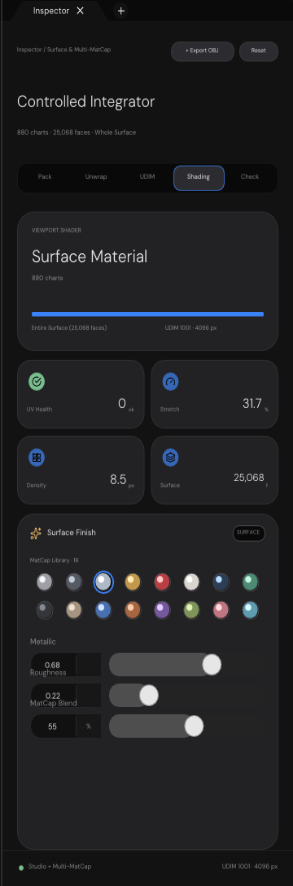
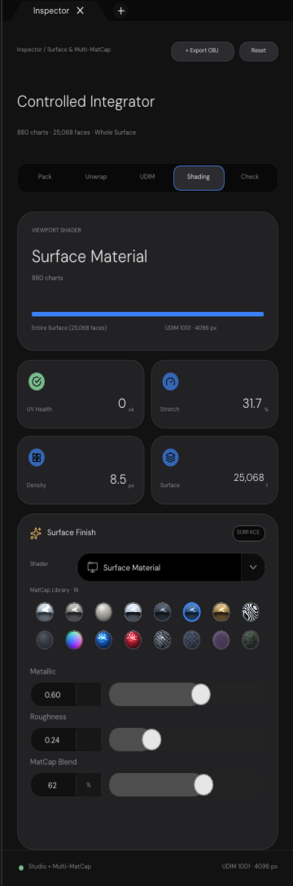
Polish UV workspace dropdown and card spacing

Changed region(s): [[0.215, 0.6095, 0.8908, 0.9142], [0.0922, 0.6095, 0.2457, 0.8837]]

diff --git a/Engine/Workspaces/UV/UVInspectorPanel.cpp b/Engine/Workspaces/UV/UVInspectorPanel.cpp
@@ -102,12 +102,12 @@ void ConstructMetricTrio(
         Surface.StrokeRectangle(Card, Highlight ? ColorRgba{ 239, 244, 207, 255 } : ColorRgba{ 255, 255, 255, 15 }, 16.0f, 1.0f);
         const ColorRgba SubInk = Highlight ? ColorRgba{ 23, 25, 14, 166 } : Theme.TextMuted;
         WorkspaceAppearance::ConstructTruncatedText(
-            Surface, FontWeightClass::Regular, { X + 11.0f, Box.Y + 9.0f }, CardW - 22.0f, 9.5f, SubInk, Cols[Idx][1]);
+            Surface, FontWeightClass::Regular, { X + 7.0f, Box.Y + 9.0f }, CardW - 14.0f, 8.5f, SubInk, Cols[Idx][1]);
         WorkspaceAppearance::ConstructTruncatedText(
-            Surface, FontWeightClass::Regular, { X + 11.0f, Box.Y + 24.0f }, CardW - 22.0f, 18.0f,
+            Surface, FontWeightClass::Regular, { X + 7.0f, Box.Y + 24.0f }, CardW - 14.0f, 18.0f,
             Highlight ? ColorRgba{ 23, 25, 14, 255 } : Theme.TextPrimary, Cols[Idx][0]);
         WorkspaceAppearance::ConstructTruncatedText(
-            Surface, FontWeightClass::Regular, { X + 11.0f, Box.Y + 47.0f }, CardW - 22.0f, 9.0f, SubInk, Cols[Idx][2]);
+            Surface, FontWeightClass::Regular, { X + 7.0f, Box.Y + 47.0f }, CardW - 14.0f, 8.0f, SubInk, Cols[Idx][2]);
     }
 }
 
@@ -127,13 +127,13 @@ void ConstructPackingMetricCards(
         Surface.FillRectangle(Card, ColorRgba{ 26, 26, 26, 255 }, 16.0f);
         Surface.StrokeRectangle(Card, ColorRgba{ 255, 255, 255, 15 }, 16.0f, 1.0f);
         WorkspaceAppearance::ConstructTruncatedText(
-            Surface, FontWeightClass::Regular, { X + 11.0f, Bounds.Y + 9.0f }, CardW - 22.0f, 9.5f,
+            Surface, FontWeightClass::Regular, { X + 7.0f, Bounds.Y + 9.0f }, CardW - 14.0f, 8.5f,
             Theme.TextMuted, Cards[Index][0]);
         WorkspaceAppearance::ConstructTruncatedText(
-            Surface, FontWeightClass::Regular, { X + 11.0f, Bounds.Y + 24.0f }, CardW - 22.0f, 18.0f,
+            Surface, FontWeightClass::Regular, { X + 7.0f, Bounds.Y + 24.0f }, CardW - 14.0f, 18.0f,
             Index == 0u ? Theme.AccentFill : Theme.TextPrimary, Cards[Index][1]);
         WorkspaceAppearance::ConstructTruncatedText(
-            Surface, FontWeightClass::Regular, { X + 11.0f, Bounds.Y + 48.0f }, CardW - 22.0f, 9.0f,
+            Surface, FontWeightClass::Regular, { X + 7.0f, Bounds.Y + 48.0f }, CardW - 14.0f, 8.0f,
             Theme.TextMuted, Cards[Index][2]);
     }
 }
@@ -175,6 +175,7 @@ void UVInspectorPanel::AttachSession(UVWorkspaceSession* TargetSession) noexcept
     ActiveLayerDropdownOpen = false;
     TargetUdimDropdownOpen = false;
     PackingScopeDropdownOpen = false;
+    ShadingModeDropdownOpen = false;
     LayerColorPickerOpen = false;
     LiveUnwrapEnabled = false;
 }
@@ -260,9 +261,9 @@ float UVInspectorPanel::RenderPackingTab(
     ConstructPackingMetricCards(
         Surface,
         { LeftX, CurY, InnerW, 66.0f },
-        {{{ std::string("Selected · UDIM ") + std::to_string(Session->ActiveUDIMNumber), SelectedCount, SelectedSub },
-          { std::string("UDIM ") + std::to_string(Session->ActiveUDIMNumber) + " Fill", FillStr, FillSub },
-          { "Auto Remainder", RemStr, RemSub }}},
+        {{{ "Selected Islands", SelectedCount, SelectedSub },
+          { "Tile Fill", FillStr, FillSub },
+          { "Remainder", RemStr, RemSub }}},
         Theme);
     CurY += 82.0f;
 
@@ -285,7 +286,7 @@ float UVInspectorPanel::RenderPackingTab(
             : std::string("Unassigned Remainder");
         WorkspaceAppearance::ConstructWeightedText(
             Surface, FontWeightClass::Regular, { SX, SY }, 11.5f, Theme.TextMuted, "Active Layer");
-        ActiveLayerDropdownBounds = { SX, SY + 17.0f, SW, 28.0f };
+        ActiveLayerDropdownBounds = { SX, SY + 17.0f, SW, 31.0f };
         const OptionalTooltip ActiveLayerTip = OptionalTooltip::FromTitled(
             "Active Layer", "Choose which priority allocation layer is active and select its faces in the workspace.");
         const ControlContact ActiveLayerButton = DropdownSelector::ConstructButton(
@@ -296,7 +297,7 @@ float UVInspectorPanel::RenderPackingTab(
             ActiveLayerDropdownOpen = !ActiveLayerDropdownOpen;
             TargetUdimDropdownOpen = false;
         }
-        SY += 52.0f;
+        SY += 55.0f;
 
         CurrentLayer = Session->Asset.Layers.InspectLayer(Session->SelectedLayerOrdinal);
         if (CurrentLayer != nullptr)
@@ -307,7 +308,7 @@ float UVInspectorPanel::RenderPackingTab(
             const OptionalTooltip ShareTip = OptionalTooltip::FromTitled(
                 "Space Share", "Set the active layer's target share of the UV packing area. Other explicit layer shares limit the available range.");
             if (ConstructSliderControl(
-                    Surface, { SX, SY, SW, 28.0f }, "Space Share", ShareVal, NormShare, Theme, Cursor, Down, Pressed,
+                    Surface, { SX, SY, SW, 46.0f }, "Space Share", ShareVal, NormShare, Theme, Cursor, Down, Pressed,
                     ColorRgba{ 0u, 0u, 0u, 0u }, ShareTip))
             {
                 Session->AdjustSelectedLayerShare(NormShare * 100.0f);
@@ -317,7 +318,7 @@ float UVInspectorPanel::RenderPackingTab(
         {
             float FixedNorm = RemPct * 0.01f;
             ConstructSliderControl(
-                Surface, { SX, SY, SW, 28.0f }, "Remainder Share (Auto)", RemStr, FixedNorm,
+                Surface, { SX, SY, SW, 46.0f }, "Remainder Share (Auto)", RemStr, FixedNorm,
                 Theme, Cursor, false, false,
                 ColorRgba{ 0u, 0u, 0u, 0u },
                 OptionalTooltip::FromText("Unassigned faces automatically receive the remaining allocation budget."));
@@ -470,7 +471,7 @@ float UVInspectorPanel::RenderPackingTab(
         CurrentLayer = Session->Asset.Layers.InspectLayer(Session->SelectedLayerOrdinal);
         const uint32_t TargetUDIM = CurrentLayer != nullptr ? CurrentLayer->TargetUDIMNumber : 0u;
         const std::string TargetLabel = TargetUDIM == 0u ? "Auto UDIM" : "UDIM " + std::to_string(TargetUDIM);
-        TargetUdimDropdownBounds = { SX, SY + 17.0f, SW, 28.0f };
+        TargetUdimDropdownBounds = { SX, SY + 17.0f, SW, 31.0f };
         const OptionalTooltip TargetTip = OptionalTooltip::FromTitled(
             "Target UDIM", "Pin the active layer's UV islands to a tile. Choosing an explicit UDIM translates its islands into that tile.");
         if (CurrentLayer != nullptr)
@@ -499,7 +500,7 @@ float UVInspectorPanel::RenderPackingTab(
             }
             TargetUdimDropdownOpen = false;
         }
-        SY += 47.0f;
+        SY += 52.0f;
 
         const float HalfW = (SW - 8.0f) * 0.5f;
         if (ConstructCapsuleButton(
@@ -591,26 +592,26 @@ float UVInspectorPanel::RenderPackingTab(
         constexpr std::array<const char*, 4u> ScopeOptions {{
             "Pack into Active UDIM Tile", "Pack Per Assigned UDIM Tile", "Auto-Spill Overflow to New UDIMs", "Pack Selected Islands Only" }};
         const uint32_t ScopeIndex = static_cast<uint32_t>(Prefs.PackingScope);
-        PackingScopeDropdownBounds = { SX, SY + 17.0f, SW, 28.0f };
+        PackingScopeDropdownBounds = { SX, SY + 17.0f, SW, 31.0f };
         const OptionalTooltip ScopeTip = OptionalTooltip::FromTitled(
             "UDIM Packing Scope", "Choose which UDIM tiles are affected by the next pack operation.");
         const ControlContact ScopeButton = DropdownSelector::ConstructButton(
             Surface, PackingScopeDropdownBounds, ScopeOptions[std::min<uint32_t>(ScopeIndex, 3u)],
-            PackingScopeDropdownOpen, Input.PrimaryPointer, 0.92f, ControlIcon::LayoutGrid, ScopeTip);
+            PackingScopeDropdownOpen, Input.PrimaryPointer, 1.0f, ControlIcon::LayoutGrid, ScopeTip);
         if (ScopeButton.Clicked)
         {
             PackingScopeDropdownOpen = !PackingScopeDropdownOpen;
             ActiveLayerDropdownOpen = false;
             TargetUdimDropdownOpen = false;
         }
-        SY += 52.0f;
+        SY += 55.0f;
 
         // Island Margin Padding (0..64 px)
         float MarginNorm = static_cast<float>(Prefs.IslandMarginPixels) / 64.0f;
         char  MarginTxt[24]{};
         std::snprintf(MarginTxt, sizeof(MarginTxt), "%u px", Prefs.IslandMarginPixels);
         if (ConstructSliderControl(
-                Surface, { SX, SY, SW, 28.0f }, "Island Margin Padding", MarginTxt, MarginNorm, Theme, Cursor, Down, Pressed,
+                Surface, { SX, SY, SW, 46.0f }, "Island Margin Padding", MarginTxt, MarginNorm, Theme, Cursor, Down, Pressed,
                 ColorRgba{ 0u, 0u, 0u, 0u },
                 OptionalTooltip::FromTitled("Island Margin Padding", "Set the edge gutter between packed islands in pixels.")))
         {
@@ -1037,7 +1038,7 @@ float UVInspectorPanel::RenderUnwrapTab(
         float AngleNorm = std::clamp((Session->SharpAngleThreshold - 10.0f) / 79.0f, 0.0f, 1.0f);
         char AngleTxt[24]{};
         std::snprintf(AngleTxt, sizeof(AngleTxt), "%.0f°", Session->SharpAngleThreshold);
-        if (ConstructSliderControl(Surface, { SX, SY, SW, 28.0f }, "Smart Angle Limit", AngleTxt, AngleNorm, Theme, Cursor, Down, Pressed))
+        if (ConstructSliderControl(Surface, { SX, SY, SW, 46.0f }, "Smart Angle Limit", AngleTxt, AngleNorm, Theme, Cursor, Down, Pressed))
             Session->SharpAngleThreshold = 10.0f + AngleNorm * 79.0f;
         SY += 52.0f;
         (void)ConstructToggleRow(Surface, { SX, SY, SW, 42.0f }, "Live Unwrap", LiveUnwrapEnabled,
@@ -1106,11 +1107,11 @@ float UVInspectorPanel::RenderUnwrapTab(
         float IterNorm = static_cast<float>(Session->RelaxIterations) / 64.0f;
         char  IterTxt[24]{};
         std::snprintf(IterTxt, sizeof(IterTxt), "%u passes", Session->RelaxIterations);
-        if (ConstructSliderControl(Surface, { SX, SY, SW, 28.0f }, "Relax Passes", IterTxt, IterNorm, Theme, Cursor, Down, Pressed))
+        if (ConstructSliderControl(Surface, { SX, SY, SW, 46.0f }, "Relax Passes", IterTxt, IterNorm, Theme, Cursor, Down, Pressed))
         {
             Session->RelaxIterations = std::max(1u, static_cast<uint32_t>(std::round(IterNorm * 64.0f)));
         }
-        SY += 36.0f;
+        SY += 50.0f;
 
         const float HalfW = (SW - 6.0f) * 0.5f;
         if (ConstructCapsuleButton(Surface, { SX, SY, HalfW, 28.0f }, "Relax Stretch GPU", Theme, Cursor, Pressed, false, true, 9.8f))
@@ -1415,6 +1416,7 @@ float UVInspectorPanel::RenderShadingTab(
     const Point2D Cursor{ Input.PrimaryPointer.X, Input.PrimaryPointer.Y };
     const bool Pressed = Input.PrimaryPointer.Pressed;
     const bool Down = Input.PrimaryPointer.Down;
+    if (Input.EscapePressed) ShadingModeDropdownOpen = false;
     const auto& Network = Session->Asset.Network;
     float CurY = StartY;
 
@@ -1508,24 +1510,25 @@ float UVInspectorPanel::RenderShadingTab(
         SY += 30.0f;
         WorkspaceAppearance::ConstructWeightedText(Surface, FontWeightClass::Regular,
             { SX, SY + 7.0f }, 8.8f, Theme.TextMuted, "Shader");
-        const auto CurrentShader = Session->RenderOptions3D.DisplayMode;
-        const Rectangle2D ShaderButton{ SX + 58.0f, SY, SW - 58.0f, 24.0f };
-        const char* ShaderButtonLabel = "Surface Material";
-        if (CurrentShader == GeometricRaster::SurfaceDisplayMode::MatCapPreview) ShaderButtonLabel = "MatCap (Per-Face)";
-        else if (CurrentShader == GeometricRaster::SurfaceDisplayMode::MaterialAndMatCap) ShaderButtonLabel = "Material + MatCap";
-        if (ConstructCapsuleButton(Surface, ShaderButton, ShaderButtonLabel, Theme, Cursor, Pressed,
-                false, false, 8.8f, -1.0f,
-                OptionalTooltip::FromText("Cycle between surface material, per-face MatCap, and Material + MatCap shading.")))
+        constexpr std::array<const char*, 3u> ShaderOptions {{
+            "Surface Material", "MatCap (Per-Face)", "Material + MatCap"
+        }};
+        uint32_t ShaderIndex = 0u;
+        if (Session->RenderOptions3D.DisplayMode == GeometricRaster::SurfaceDisplayMode::MatCapPreview) ShaderIndex = 1u;
+        else if (Session->RenderOptions3D.DisplayMode == GeometricRaster::SurfaceDisplayMode::MaterialAndMatCap) ShaderIndex = 2u;
+        Rectangle2D ShaderDropdownBounds{ SX + 58.0f, SY, SW - 58.0f, 31.0f };
+        const ControlContact ShaderDropdown = DropdownSelector::ConstructButton(
+            Surface, ShaderDropdownBounds, ShaderOptions[ShaderIndex], ShadingModeDropdownOpen,
+            Input.PrimaryPointer, 1.0f, ControlIcon::DisplayMonitor,
+            OptionalTooltip::FromText("Choose the viewport shader mode."));
+        if (ShaderDropdown.Clicked)
         {
-            if (CurrentShader == GeometricRaster::SurfaceDisplayMode::SurfaceMaterial)
-                Session->RenderOptions3D.DisplayMode = GeometricRaster::SurfaceDisplayMode::MatCapPreview;
-            else if (CurrentShader == GeometricRaster::SurfaceDisplayMode::MatCapPreview)
-                Session->RenderOptions3D.DisplayMode = GeometricRaster::SurfaceDisplayMode::MaterialAndMatCap;
-            else
-                Session->RenderOptions3D.DisplayMode = GeometricRaster::SurfaceDisplayMode::SurfaceMaterial;
-            Session->FramebuffersDirty = true;
+            ShadingModeDropdownOpen = !ShadingModeDropdownOpen;
+            ActiveLayerDropdownOpen = false;
+            TargetUdimDropdownOpen = false;
+            PackingScopeDropdownOpen = false;
         }
-        SY += 31.0f;
+        SY += 33.0f;
         WorkspaceAppearance::ConstructWeightedText(Surface, FontWeightClass::Regular,
             { SX, SY + 3.0f }, 8.8f, Theme.TextMuted, "MatCap Library · 16");
         SY += 19.0f;
@@ -1552,12 +1555,43 @@ float UVInspectorPanel::RenderShadingTab(
         std::snprintf(RghTxt, sizeof(RghTxt), "%.2f", SurfaceRoughness);
         std::snprintf(BldTxt, sizeof(BldTxt), "%.0f%%", SurfaceMatBlend * 100.0f);
         bool Dirty = false;
-        Dirty |= ConstructSliderControl(Surface, { SX, SY, SW, 28.0f }, "Metallic", MetTxt, SurfaceMetallic, Theme, Cursor, Down, Pressed);
-        SY += 34.0f;
-        Dirty |= ConstructSliderControl(Surface, { SX, SY, SW, 28.0f }, "Roughness", RghTxt, SurfaceRoughness, Theme, Cursor, Down, Pressed);
-        SY += 34.0f;
-        Dirty |= ConstructSliderControl(Surface, { SX, SY, SW, 28.0f }, "MatCap Blend", BldTxt, SurfaceMatBlend, Theme, Cursor, Down, Pressed);
+        Dirty |= ConstructSliderControl(Surface, { SX, SY, SW, 46.0f }, "Metallic", MetTxt, SurfaceMetallic, Theme, Cursor, Down, Pressed);
+        SY += 50.0f;
+        Dirty |= ConstructSliderControl(Surface, { SX, SY, SW, 46.0f }, "Roughness", RghTxt, SurfaceRoughness, Theme, Cursor, Down, Pressed);
+        SY += 50.0f;
+        Dirty |= ConstructSliderControl(Surface, { SX, SY, SW, 46.0f }, "MatCap Blend", BldTxt, SurfaceMatBlend, Theme, Cursor, Down, Pressed);
         if (Dirty) Session->ApplySurfaceRoughnessMetallic(SurfaceRoughness, SurfaceMetallic, SurfaceMatBlend);
+
+        if (ShadingModeDropdownOpen)
+        {
+            Rectangle2D SheetBounds = DropdownSelector::QuerySheetBounds(ShaderDropdownBounds,
+                static_cast<uint32_t>(ShaderOptions.size()));
+            if (SheetBounds.Bottom() > Card.Bottom())
+            {
+                ShaderDropdownBounds.Y -= SheetBounds.Height + 2.0f * ControlMetrics::DropdownPaddingY + ShaderDropdownBounds.Height;
+                SheetBounds = DropdownSelector::QuerySheetBounds(ShaderDropdownBounds,
+                    static_cast<uint32_t>(ShaderOptions.size()));
+            }
+            uint32_t ChosenShader = ShaderIndex;
+            const ControlContact Choice = DropdownSelector::ConstructOptionSheet(
+                Surface, ShaderDropdownBounds, ShaderOptions.data(), static_cast<uint32_t>(ShaderOptions.size()),
+                ShaderIndex, Input.PrimaryPointer, ChosenShader);
+            if (Choice.Clicked && ChosenShader < ShaderOptions.size())
+            {
+                constexpr std::array<GeometricRaster::SurfaceDisplayMode, 3u> Modes {{
+                    GeometricRaster::SurfaceDisplayMode::SurfaceMaterial,
+                    GeometricRaster::SurfaceDisplayMode::MatCapPreview,
+                    GeometricRaster::SurfaceDisplayMode::MaterialAndMatCap
+                }};
+                Session->RenderOptions3D.DisplayMode = Modes[ChosenShader];
+                Session->FramebuffersDirty = true;
+                ShadingModeDropdownOpen = false;
+            }
+            else if (Input.PrimaryPointer.Released && !ShaderDropdownBounds.Contains(Cursor) && !SheetBounds.Contains(Cursor))
+            {
+                ShadingModeDropdownOpen = false;
+            }
+        }
         CurY += Card.Height + 12.0f;
     }
     return CurY - StartY;
@@ -1582,17 +1616,17 @@ float UVInspectorPanel::RenderCheckTab(
     std::snprintf(OverlapValue, sizeof(OverlapValue), "%u", Metrics.OverlapFaceCount);
     std::snprintf(FlippedValue, sizeof(FlippedValue), "%u", Metrics.FlippedFaceCount);
     std::snprintf(StretchValue, sizeof(StretchValue), "%.2f", Metrics.MeanL2Stretch);
-    std::snprintf(OverlapSub, sizeof(OverlapSub), "%s", Metrics.OverlapFaceCount == 0u ? "Clean non-overlapping" : "Review overlaps");
-    std::snprintf(FlippedSub, sizeof(FlippedSub), "%s", Metrics.FlippedFaceCount == 0u ? "All positive facing" : "Inverted UV normals");
+    std::snprintf(OverlapSub, sizeof(OverlapSub), "%s", Metrics.OverlapFaceCount == 0u ? "No overlap" : "Review overlaps");
+    std::snprintf(FlippedSub, sizeof(FlippedSub), "%s", Metrics.FlippedFaceCount == 0u ? "All positive" : "Inverted UV");
     float MaxStretch = 0.0f;
     for (const float Stretch : Metrics.PerFaceStretch) MaxStretch = std::max(MaxStretch, Stretch);
     std::snprintf(StretchSub, sizeof(StretchSub), "Max %.2f", MaxStretch);
 
     ConstructMetricTrio(
         Surface, { LeftX, CurY, InnerW, 60.0f },
-        OverlapValue, "Overlapping Faces", OverlapSub,
+        OverlapValue, "Overlaps", OverlapSub,
         FlippedValue, "Flipped Winding", FlippedSub,
-        StretchValue, "Mean L2 Stretch", StretchSub,
+        StretchValue, "Mean Stretch", StretchSub,
         Theme, Metrics.OverlapFaceCount == 0u);
     CurY += 70.0f;
 
@@ -1829,6 +1863,7 @@ void UVInspectorPanel::Render(
                 ActiveLayerDropdownOpen = false;
                 TargetUdimDropdownOpen = false;
                 PackingScopeDropdownOpen = false;
+                ShadingModeDropdownOpen = false;
             }
         }
         CurY += 54.0f;

diff --git a/Engine/Workspaces/UV/UVOutlinerPanel.cpp b/Engine/Workspaces/UV/UVOutlinerPanel.cpp
@@ -388,7 +388,7 @@ void UVOutlinerPanel::Render(
     {
         UDIMFilterCode = 0u;
     }
-    UDIMFilterDropdownBounds = { LeftX, CurY, InnerW, 28.0f };
+    UDIMFilterDropdownBounds = { LeftX, CurY, InnerW, 31.0f };
     const ControlContact FilterContact = DropdownSelector::ConstructButton(
         Surface,
         UDIMFilterDropdownBounds,
@@ -402,7 +402,7 @@ void UVOutlinerPanel::Render(
     {
         UDIMFilterDropdownOpen = !UDIMFilterDropdownOpen;
     }
-    CurY += 36.0f;
+    CurY += 39.0f;
 
     const auto LayerSpan = Session->Asset.Layers.InspectLayers();
     const std::string_view FilterQuery(SearchEditBuffer.Text, SearchEditBuffer.Length);

diff --git a/Engine/Workspaces/UV/UVInspectorPanel.h b/Engine/Workspaces/UV/UVInspectorPanel.h
@@ -55,6 +55,7 @@ private:
     bool                ActiveLayerDropdownOpen = false;
     bool                TargetUdimDropdownOpen = false;
     bool                PackingScopeDropdownOpen = false;
+    bool                ShadingModeDropdownOpen = false;
     bool                LayerColorPickerOpen = false;
     bool                LiveUnwrapEnabled = false;
 };

diff --git a/Exhibits/Images/UV/UVInspector-HTML-Parity-2026-11-10.md b/Exhibits/Images/UV/UVInspector-HTML-Parity-2026-11-10.md
@@ -14,6 +14,12 @@
 
 `cmake --build build/Development --target FrontierUV -j2` succeeds. Each of the four native tab states was separately selected, built, and captured; the session header was restored to its default Packing tab afterward. `git diff --check` is clean. No GitHub Actions were run.
 
+## Layout polish follow-up
+
+- Standardized the UV workspace dropdowns on the Perspective control: shared icon/caret button, option sheet, 31px control height, and consistent spacing (Inspector, Outliner, and Shading selector).
+- Fixed slider rows to reserve the full label + value/track height, spaced each row consistently, and adjusted the metric-card gutters/type size to prevent label clipping and crowding.
+- Refreshed native Packing, Shading, and Check captures: `UVInspector-{Packing,Shading,Check}-native.png`.
+
 ## MatCap parity follow-up
 
 - Baked the exact 16-slot pixel maps from `Experimental/UVEditor/Engine/EngineeringMatcaps.js` into `EngineContent/MatCaps/MatCapStudioAtlas.png` (reviewable atlas) and `MatCapStudioAtlas.rgba` (runtime upload data), with a slot-name catalog JSON.
